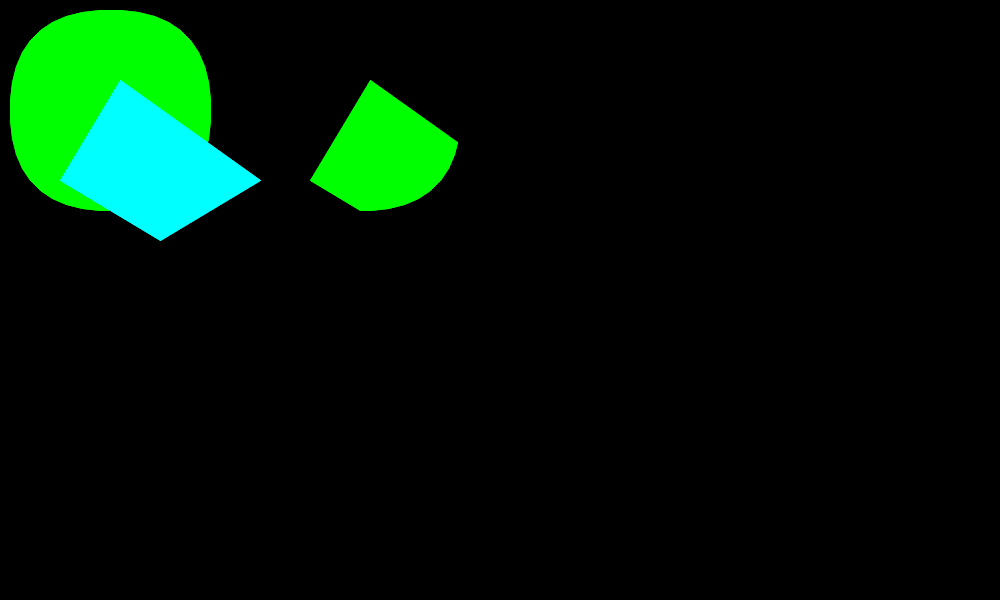
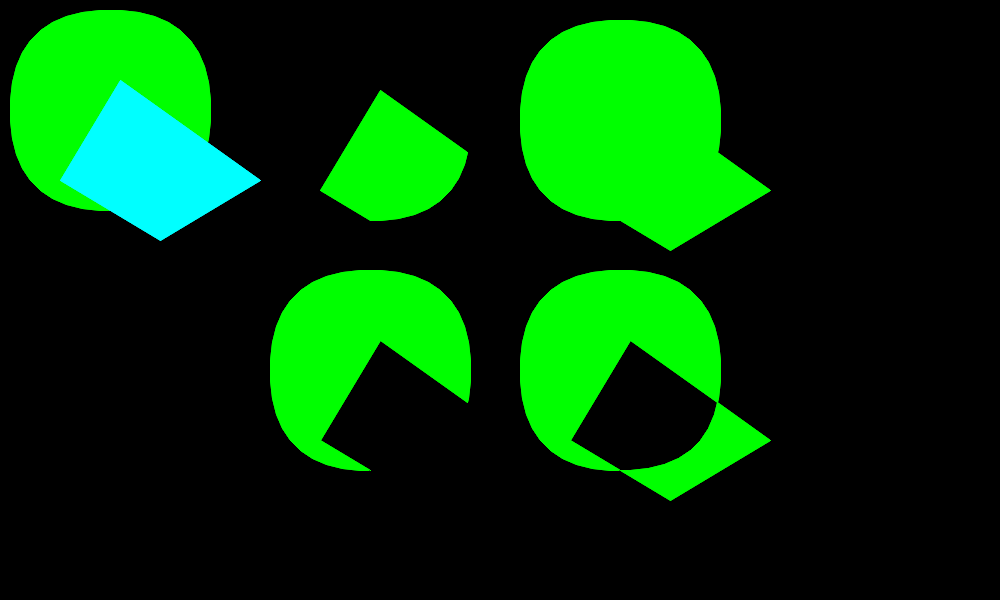
Improving polygon clipper

diff --git a/src/Pt-Gfx/tests/ImagePainterTest2_Draw_Path.cpp b/src/Pt-Gfx/tests/ImagePainterTest2_Draw_Path.cpp
@@ -314,9 +314,6 @@ static void testDrawPathClipping(const char* title, Image& image, Painter& paint
     atrans.transformPoints(subjPointsF.data(), subjPointsF.size());
     atrans.pop();
 
-    // Perform clipping
-    Path::clipPolygon(clipPointsF, subjPointsF, cregPointsF);
-
     // Draw the clip-region and subject polygons
     atrans.push();
     atrans.translate(10 + 250 * col, 10 + 250 * row);
@@ -329,7 +326,8 @@ static void testDrawPathClipping(const char* title, Image& image, Painter& paint
     ip2->fillPolygon(cregPointsF.data(), cregPointsF.size());
     ++col;
 
-    // Draw the clipped polygon
+    // Perform clipping and draw the clipped polygon
+    Path::clipPolygon(clipPointsF, subjPointsF, cregPointsF, Path::Intersection);
     atrans.push();
     atrans.translate(10 + 250 * col, 10 + 250 * row);
     atrans.transformPoints(clipPointsF.data(), clipPointsF.size());
@@ -337,6 +335,33 @@ static void testDrawPathClipping(const char* title, Image& image, Painter& paint
     ip2->setBrush(brush1);
     ip2->fillPolygon(clipPointsF.data(), clipPointsF.size());
     ++col;
+
+    Path::clipPolygon(clipPointsF, subjPointsF, cregPointsF, Path::Union);
+    atrans.push();
+    atrans.translate(10 + 250 * col, 10 + 250 * row);
+    atrans.transformPoints(clipPointsF.data(), clipPointsF.size());
+    atrans.pop();
+    ip2->setBrush(brush1);
+    ip2->fillPolygon(clipPointsF.data(), clipPointsF.size());
+    ++row;
+    col = 1;
+
+    Path::clipPolygon(clipPointsF, subjPointsF, cregPointsF, Path::Difference);
+    atrans.push();
+    atrans.translate(10 + 250 * col, 10 + 250 * row);
+    atrans.transformPoints(clipPointsF.data(), clipPointsF.size());
+    atrans.pop();
+    ip2->setBrush(brush1);
+    ip2->fillPolygon(clipPointsF.data(), clipPointsF.size());
+    ++col;
+
+    Path::clipPolygon(clipPointsF, subjPointsF, cregPointsF, Path::Xor);
+    atrans.push();
+    atrans.translate(10 + 250 * col, 10 + 250 * row);
+    atrans.transformPoints(clipPointsF.data(), clipPointsF.size());
+    atrans.pop();
+    ip2->setBrush(brush1);
+    ip2->fillPolygon(clipPointsF.data(), clipPointsF.size());
 
     sdlPreviewRGB888Buffer(title, image.data(), image.width(), image.height(), !!ip2);
 }

diff --git a/src/Pt-Gfx/Path.cpp b/src/Pt-Gfx/Path.cpp
@@ -630,7 +630,7 @@ void Path::generatePoints(std::vector<PointF>& dst, float smoothness) const
     //printf("\n");
 }
 
-void Path::clipPolygon(std::vector<PointF>& result, const std::vector<PointF>& subject, const std::vector<PointF>& clipRegion)
+void Path::clipPolygon(std::vector<PointF>& result, const std::vector<PointF>& subject, const std::vector<PointF>& clipRegion, ClipMode cm)
 {
     // Scaling factors
     const double mmFac = 16.0;
@@ -682,10 +682,30 @@ void Path::clipPolygon(std::vector<PointF>& result, const std::vector<PointF>& s
     }
 
     // Perform clipping
-    clipper.Execute(ClipperLib::ctIntersection, cpresult, ClipperLib::pftEvenOdd, ClipperLib::pftEvenOdd);
+    result.clear();
+
+    switch(cm) {
+        case Intersection:
+            clipper.Execute(ClipperLib::ctIntersection, cpresult, ClipperLib::pftEvenOdd, ClipperLib::pftEvenOdd);
+            break;
+
+        case Union:
+            clipper.Execute(ClipperLib::ctUnion,        cpresult, ClipperLib::pftEvenOdd, ClipperLib::pftEvenOdd);
+            break;
+
+        case Difference:
+            clipper.Execute(ClipperLib::ctDifference,   cpresult, ClipperLib::pftEvenOdd, ClipperLib::pftEvenOdd);
+            break;
+
+        case Xor:
+            clipper.Execute(ClipperLib::ctXor,          cpresult, ClipperLib::pftEvenOdd, ClipperLib::pftEvenOdd);
+            break;
+
+        default:
+            return;
+    }
 
     // Combine back the result polygons
-    result.clear();
     for(size_t i = 0; i < cpresult.size(); ++i) {
         const ClipperLib::Path& curPath = cpresult[i];
         if(!result.empty()) result.push_back(Painter::PolygonSeparatorPointF);

diff --git a/include/Pt/Gfx/Path.h b/include/Pt/Gfx/Path.h
@@ -141,10 +141,16 @@ class PT_GFX_API Path {
         //       * If the "smoothness" factor is too large, the anti-aliasing will become less effective
         void generatePoints(std::vector<PointF>& dst, float smoothness = 1.0f) const;
 
+    public:
         //
         // Polygon clipper
         //
-        static void clipPolygon(std::vector<PointF>& result, const std::vector<PointF>& subject, const std::vector<PointF>& clipRegion);
+
+        enum ClipMode {
+            Intersection, Union, Difference, Xor
+        };
+
+        static void clipPolygon(std::vector<PointF>& result, const std::vector<PointF>& subject, const std::vector<PointF>& clipRegion, ClipMode cm);
 
     private:
         struct PathData;
